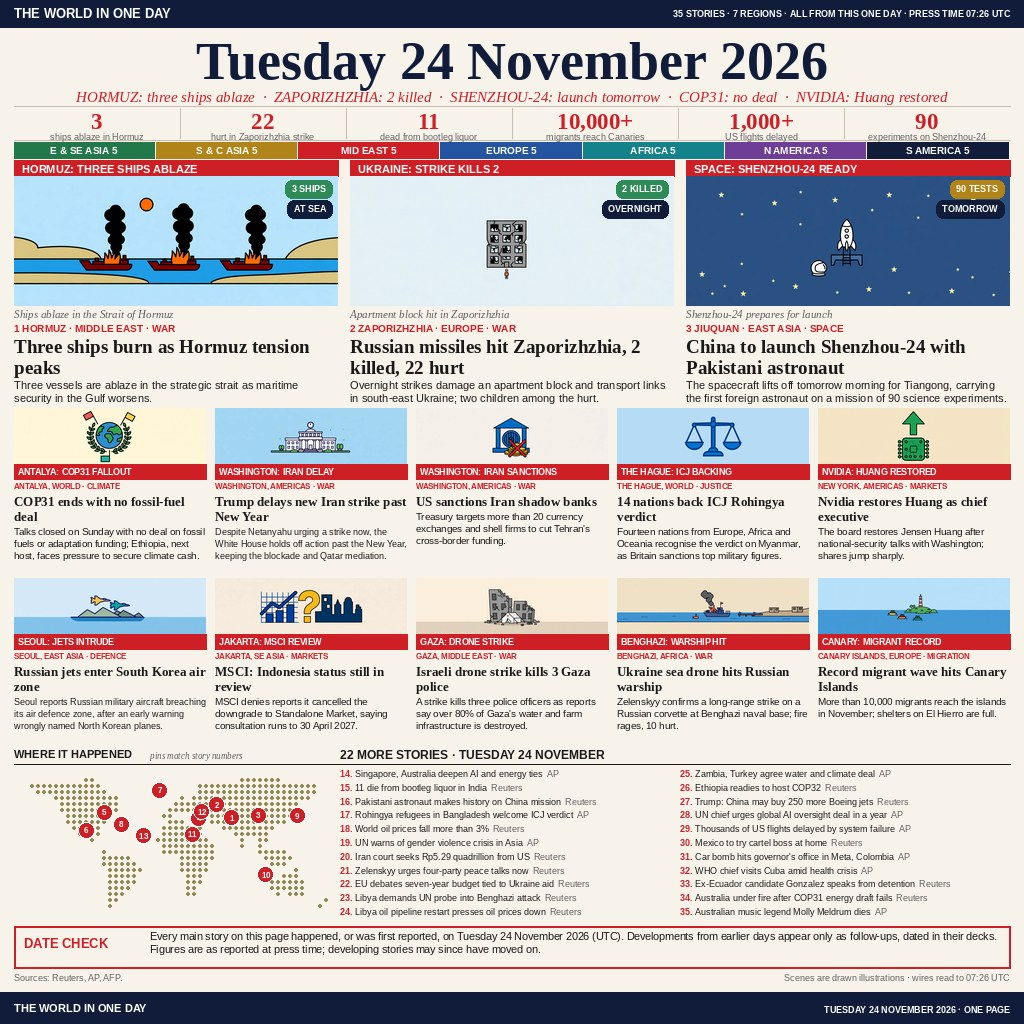
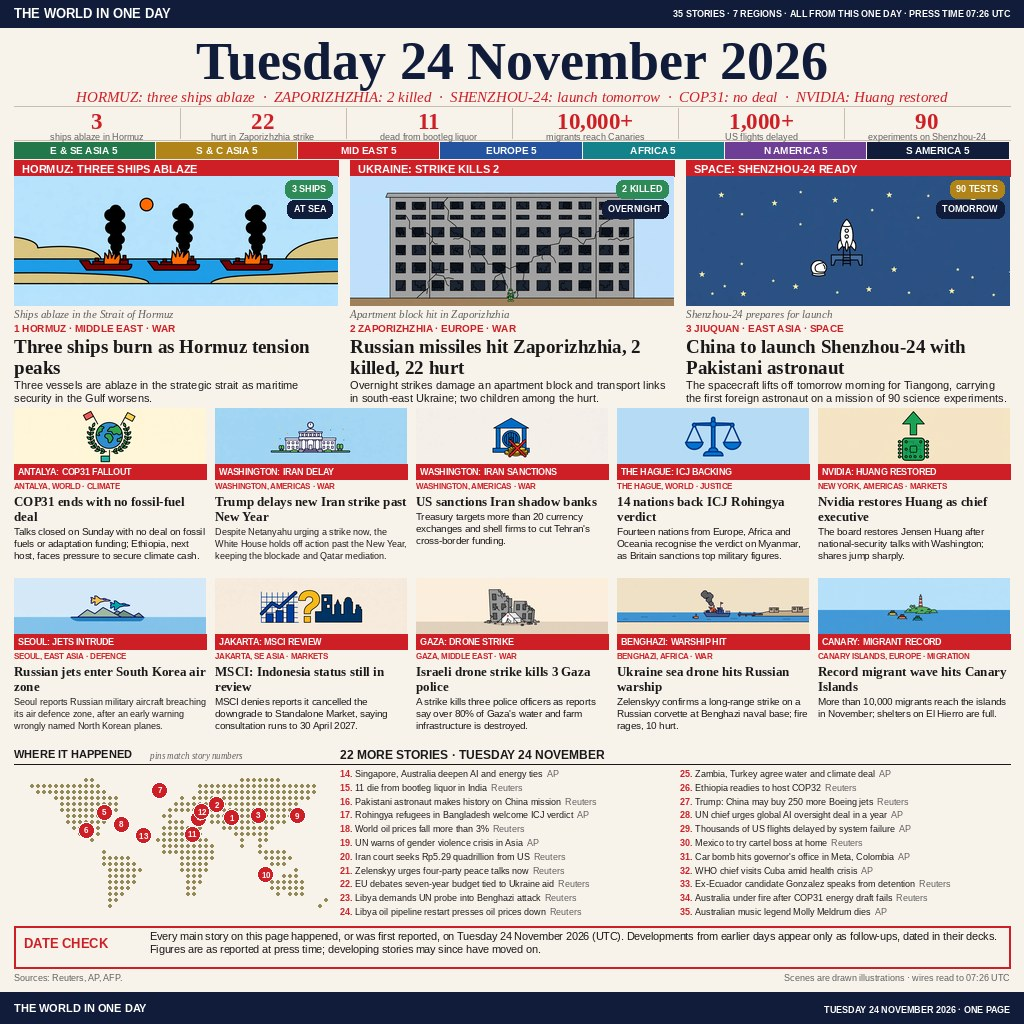
fix: larger Zaporizhzhia hero thumbnail, README weekday Tuesday

Changed region(s): [[0.3438, 0.1562, 0.6562, 0.3125]]

diff --git a/README.md b/README.md
@@ -1,4 +1,4 @@
-# Monday 24 November 2026: The World in One Day
+# Tuesday 24 November 2026: The World in One Day
 
 One page, 35 stories, 7 regions — the whole of Tuesday 24 November 2026 in a single newspaper image.
 
